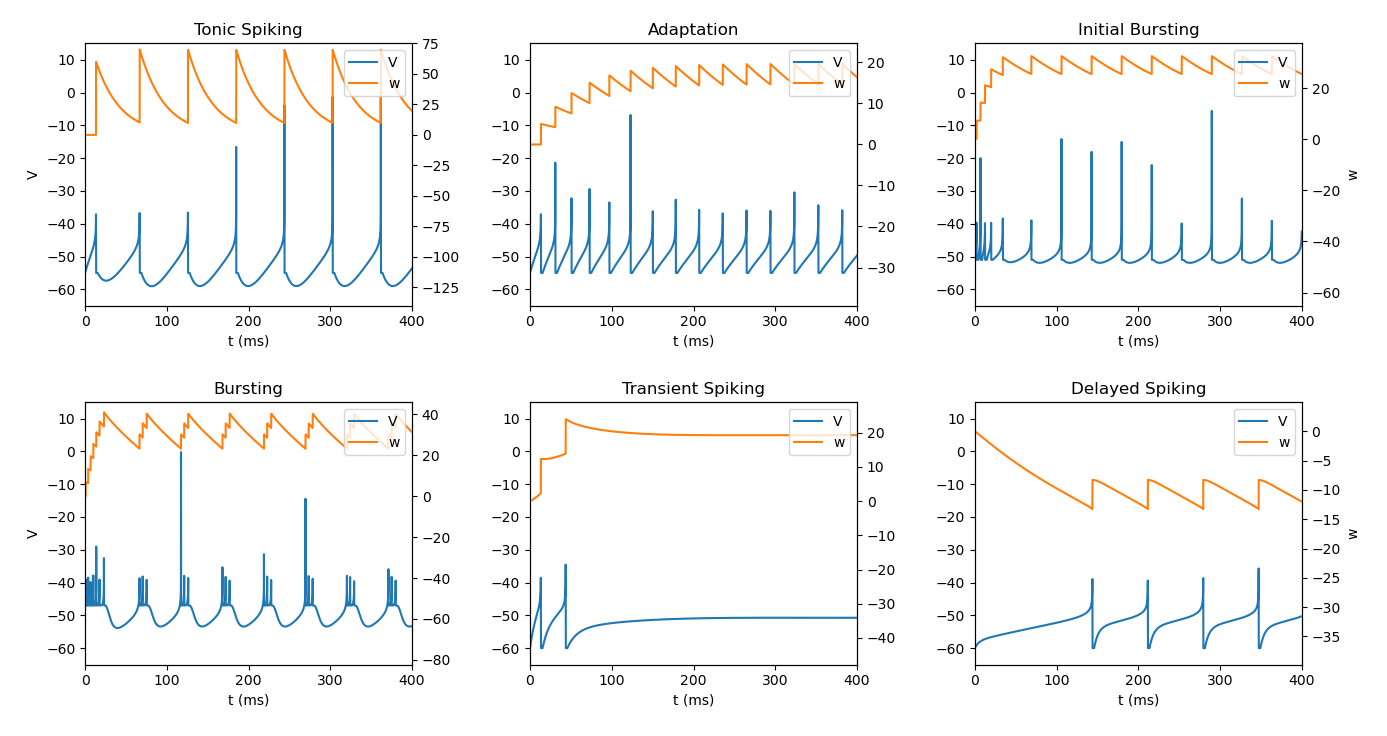
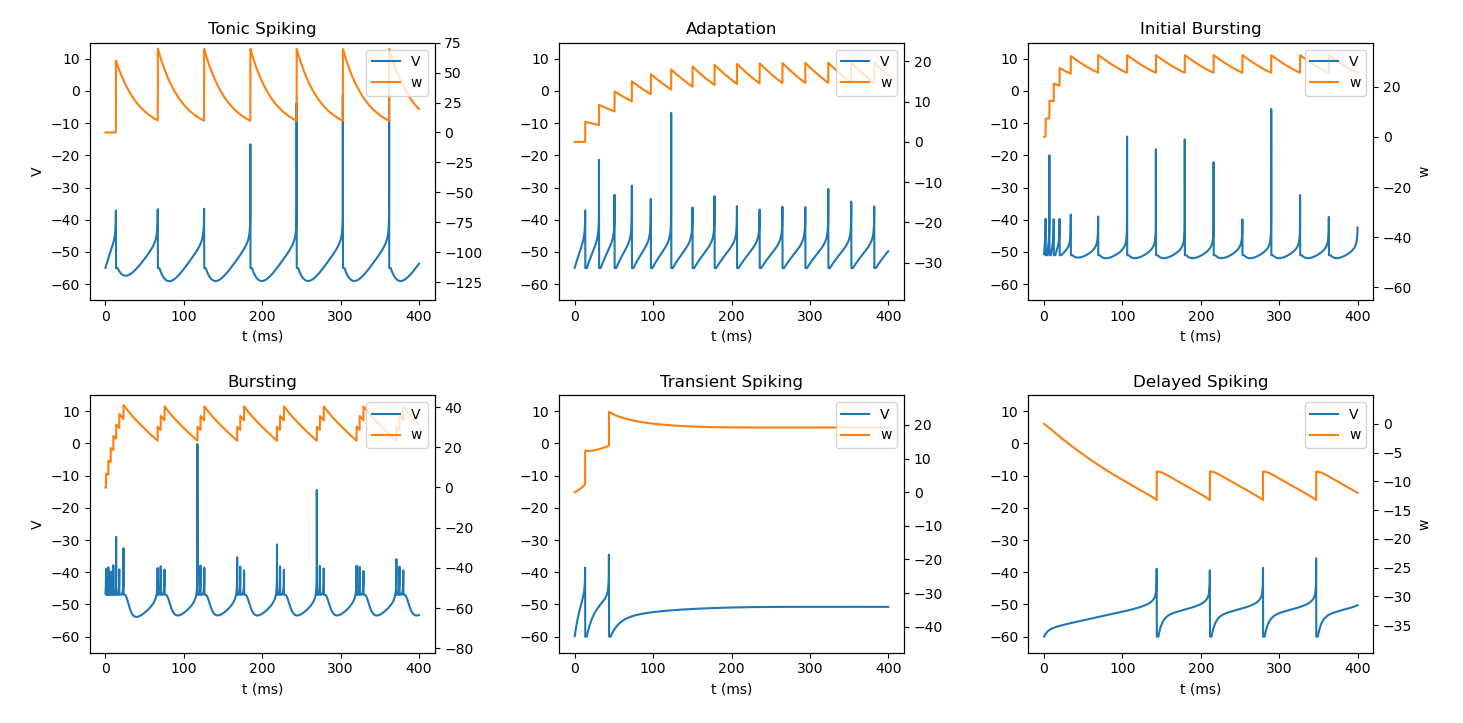
modifications

diff --git a/model_analysis/AdEx_patterns.py b/model_analysis/AdEx_patterns.py
@@ -52,6 +52,7 @@ class AdEx(bp.dyn.NeuGroup):
     refractory = (_t - self.t_last_spike) <= self.tau_ref  # 判断神经元是否处于不应期
     V, w = self.integral(self.V, self.w, _t, self.input, dt=_dt)  # 更新膜电位V和权重值w
     V = bm.where(refractory, self.V, V)  # 若处于不应期，则返回原始膜电位self.V，否则返回更新后的膜电位V
+    w = bm.where(refractory, self.w, w)  # w同理
     spike = self.V_th <= V  # 将大于阈值的神经元标记为发放了脉冲
     self.spike.value = spike  # 更新神经元脉冲发放状态
     self.t_last_spike.value = bm.where(spike, _t, self.t_last_spike)  # 更新最后一次脉冲发放时间
@@ -69,7 +70,6 @@ def subplot(i, neu, title=None, input=('input', 65.), duration=400):
   ax1.plot(runner.mon.ts, runner.mon.V, label='V')
   ax1.set_ylim(- 65, 15)
   ax1.set_xlabel('t (ms)')
-  ax1.set_xlim(0, 400)
   if i % 3 == 1:
     ax1.set_ylabel('V')
 
@@ -86,15 +86,15 @@ def subplot(i, neu, title=None, input=('input', 65.), duration=400):
   plt.title(title)
 
 
-plt.figure(figsize=(12, 6))
-
-subplot(1, AdEx(1, tau=20., a=0., tau_w=30., b=60., V_reset=-55.), title='Tonic Spiking')
-subplot(2, AdEx(1, tau=20., a=0., tau_w=100., b=5., V_reset=-55.), title='Adaptation')
-subplot(3, AdEx(1, tau=5., a=0.5, tau_w=100., b=7., V_reset=-51.), title='Initial Bursting')
-subplot(4, AdEx(1, tau=5., a=-0.5, tau_w=100., b=7., V_reset=-47.), title='Bursting')
-subplot(5, AdEx(1, tau=10., a=1., tau_w=100., b=10., V_reset=-60.), title='Transient Spiking', input=('input', 55.))
-subplot(6, AdEx(1, tau=5., a=-1., tau_w=100., b=5., V_reset=-60.), title='Delayed Spiking', input=('input', 25.))
-# subplot(7, AdEx(1, tau=9.9, a=-0.5, tau_w=100., b=7., V_reset=-46.), title='irregular')
-
-plt.tight_layout()
-plt.show()
+# plt.figure(figsize=(12, 6))
+#
+# subplot(1, AdEx(1, tau=20., a=0., tau_w=30., b=60., V_reset=-55.), title='Tonic Spiking')
+# subplot(2, AdEx(1, tau=20., a=0., tau_w=100., b=5., V_reset=-55.), title='Adaptation')
+# subplot(3, AdEx(1, tau=5., a=0.5, tau_w=100., b=7., V_reset=-51.), title='Initial Bursting')
+# subplot(4, AdEx(1, tau=5., a=-0.5, tau_w=100., b=7., V_reset=-47.), title='Bursting')
+# subplot(5, AdEx(1, tau=10., a=1., tau_w=100., b=10., V_reset=-60.), title='Transient Spiking', input=('input', 55.))
+# subplot(6, AdEx(1, tau=5., a=-1., tau_w=100., b=5., V_reset=-60.), title='Delayed Spiking', input=('input', 25.))
+# # subplot(7, AdEx(1, tau=9.9, a=-0.5, tau_w=100., b=7., V_reset=-46.), title='irregular')
+#
+# plt.tight_layout()
+# plt.show()

diff --git a/model_analysis/AdEx_ppa.py b/model_analysis/AdEx_ppa.py
@@ -1,0 +1,47 @@
+import brainpy as bp
+import numpy as np
+import matplotlib.pyplot as plt
+
+from AdEx_patterns import AdEx
+
+bp.math.enable_x64()
+
+
+def ppa2d(group, title, v_range=None, w_range=None, Iext=65., duration=400):
+	v_range = [-70., -40.] if not v_range else v_range
+	w_range = [-10., 50.] if not w_range else w_range
+
+	phase_plane_analyzer = bp.analysis.PhasePlane2D(
+		model=group,
+		target_vars={'V': v_range, 'w': w_range},  # 待分析变量
+		pars_update={'Iext': Iext},  # 需要更新的变量
+		resolutions=0.05
+	)
+
+	# 画出V, w的零增长曲线
+	res = phase_plane_analyzer.plot_nullcline(with_return=True, tol_nullcline=1e-3)
+	# 画出固定点
+	phase_plane_analyzer.plot_fixed_point()
+	# 画出向量场
+	phase_plane_analyzer.plot_vector_field(plot_style=dict(color='lightgrey', density=1.))
+
+	runner = bp.DSRunner(group, monitors=['V', 'w', 'spike'], inputs=('input', Iext))
+	runner(duration)
+	s_idx = np.where(runner.mon.spike.squeeze())[0]  # 找到所有发放动作电位对应的index
+	s_idx = np.concatenate(([0], s_idx))
+	# 分段画出V, w的变化轨迹
+	for i in range(len(s_idx) - 1):
+		plt.plot(runner.mon.V[s_idx[i]: s_idx[i + 1]], runner.mon.w[s_idx[i]: s_idx[i + 1]], color='darkslateblue')
+
+	# 画出虚线 x = V_reset
+	plt.plot([group.V_reset, group.V_reset], w_range, '--', color='grey', zorder='-1')
+
+	plt.xlim(v_range)
+	plt.ylim(w_range)
+	plt.title(title)
+	plt.show()
+
+
+ppa2d(AdEx(1, tau=20., a=1e-2, tau_w=30., b=60., V_reset=-55.),
+      title='tonic spiking', w_range=[-5, 75.],
+      v_range=[-70., -40.])

diff --git a/neuron_models/AdEx_model.py b/neuron_models/AdEx_model.py
@@ -52,6 +52,7 @@ class AdEx(bp.dyn.NeuGroup):
     refractory = (_t - self.t_last_spike) <= self.tau_ref  # 判断神经元是否处于不应期
     V, w = self.integral(self.V, self.w, _t, self.input, dt=_dt)  # 更新膜电位V和权重值w
     V = bm.where(refractory, self.V, V)  # 若处于不应期，则返回原始膜电位self.V，否则返回更新后的膜电位V
+    w = bm.where(refractory, self.w, w)  # w同理
     spike = self.V_th <= V  # 将大于阈值的神经元标记为发放了脉冲
     self.spike.value = spike  # 更新神经元脉冲发放状态
     self.t_last_spike.value = bm.where(spike, _t, self.t_last_spike)  # 更新最后一次脉冲发放时间
